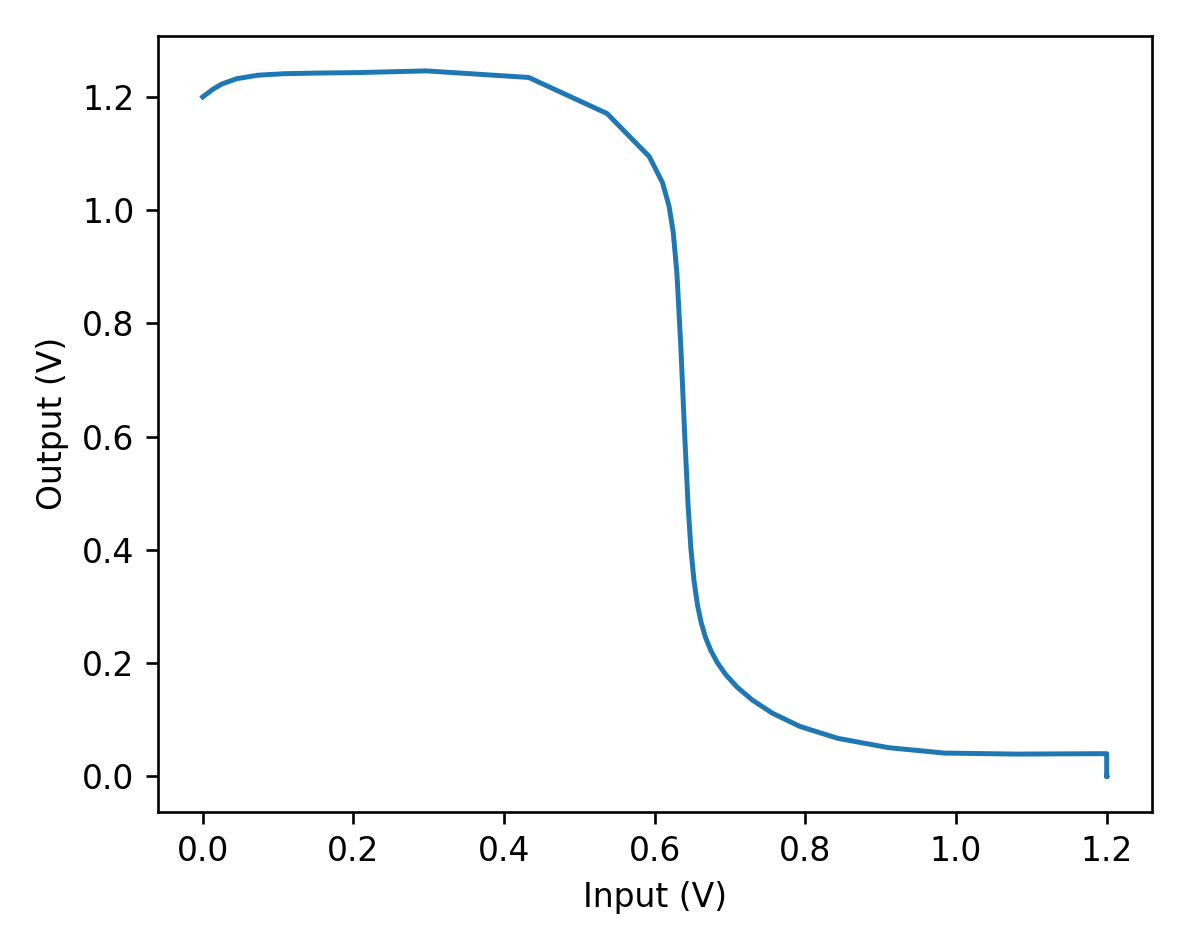
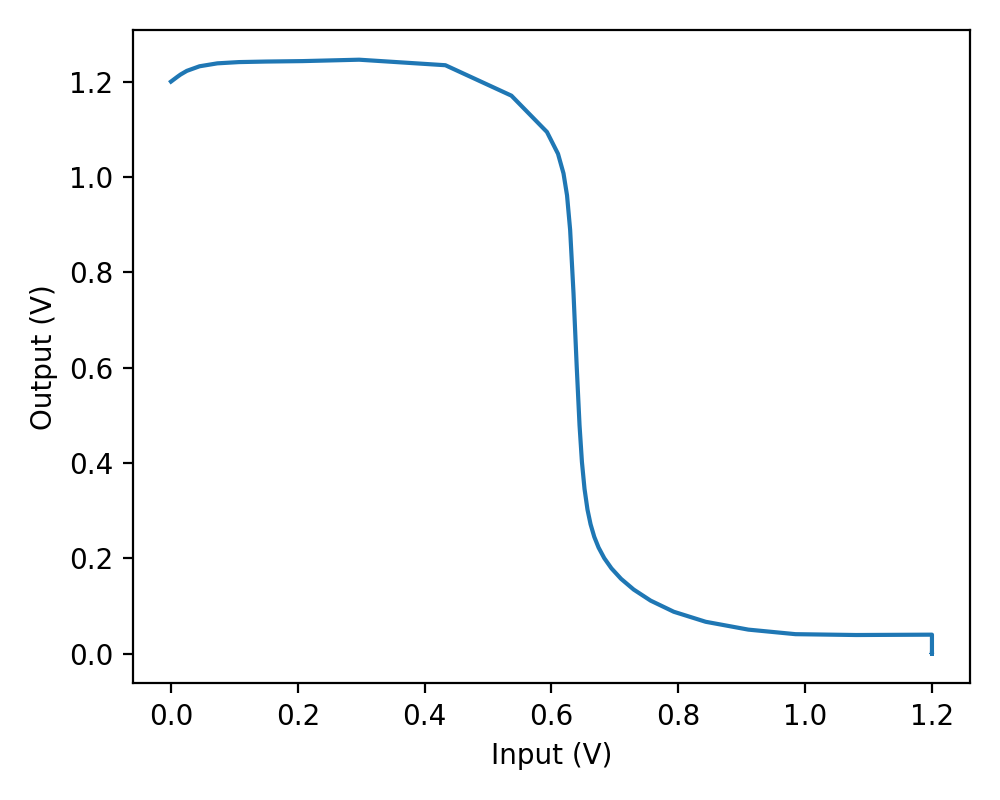
updated examples

diff --git a/Examples/01_Inverter/01_Schematics_and_Simulations.py b/Examples/01_Inverter/01_Schematics_and_Simulations.py
@@ -41,7 +41,6 @@ if sch.save():
 else:
     print('Save successful')
 
-# %%
 # Setup Simulator
 print('Setting up Simulation...')
 model_files = ['../../model/FinFET/14nfet.pm', '../../model/FinFET/14pfet.pm']
@@ -70,25 +69,19 @@ s.track_pin(nmos.pins.D, group='current')
 
 s.run(plot_in_v=False)
 
-s.plot(interactive=False)
+s.plot(save='./images/sim_waves.png')
 
-
-# %%
-# create a VTC
-
-x = s.waves['/In']['y'][0]
-y = s.waves['/Out']['y'][0]
+# create a voltage transfer curve
+x = s.waves['/In']['y']
+y = s.waves['/Out']['y']
 
 fig, ax = plt.subplots(1,1,figsize=(5,4), dpi=200)
 plt.xlabel('Input (V)')
 plt.ylabel('Output (V)')
 plt.plot(x,y)
 plt.tight_layout()
+plt.savefig('./images/VTC.png')
 plt.show()
-
-
-
-# %%
 
 
 

diff --git a/Examples/02_Parametric_Simulation/02_Parametric_Simulation.py b/Examples/02_Parametric_Simulation/02_Parametric_Simulation.py
@@ -85,6 +85,4 @@ print('Running Simulation...')
 s.run(plot_in_v=False, p_values=p_values)
 
 print('Plotting...')
-s.plot(interactive=False)
-
-
+s.plot(save='./images/sim_waves.png')
